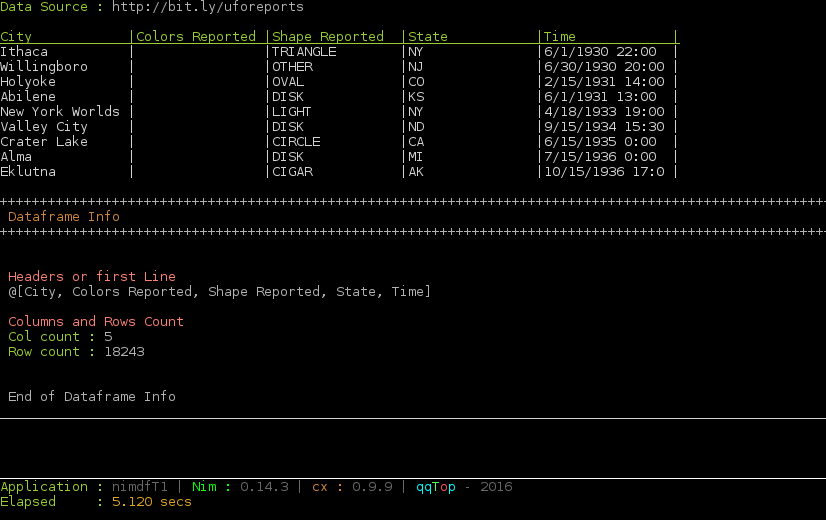
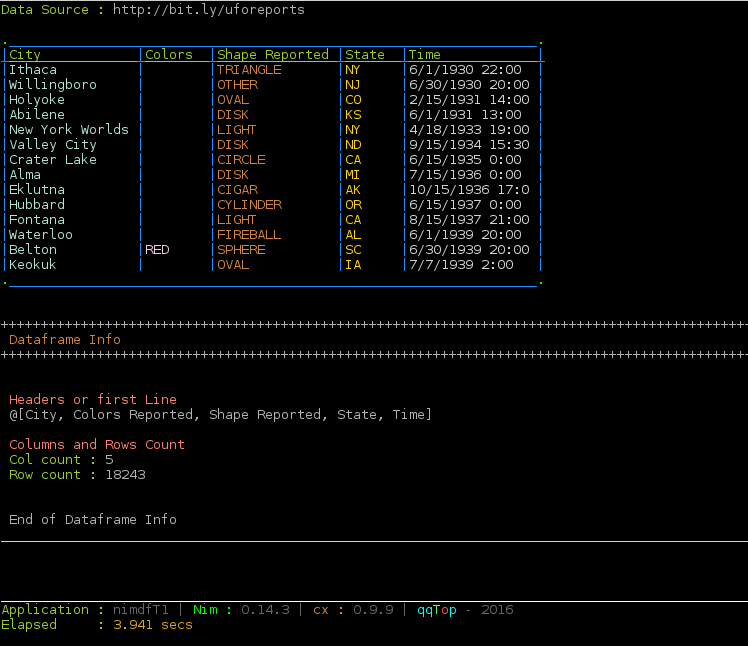
ok

diff --git a/nimdataframe.html b/nimdataframe.html
@@ -1253,10 +1253,10 @@ function main() {
     title="showCounts(df: nimdf)"><wbr />show<wbr />Counts<span class="attachedType" style="visibility:hidden">nimdf</span></a></li>
   <li><a class="reference" href="#showMaxColWidths,nimdf"
     title="showMaxColWidths(df: nimdf)"><wbr />show<wbr />Max<wbr />Col<wbr />Widths<span class="attachedType" style="visibility:hidden">nimdf</span></a></li>
-  <li><a class="reference" href="#showDf,nimdf,int,nimis,nimis,bool,string,bool,nimss"
+  <li><a class="reference" href="#showDf,nimdf,int,nimis,nimis,nimss,bool,string,bool,nimss,bool"
     title="showDf(df: nimdf; rows: int = 10; cols: nimis = @ []; colwd: nimis = @ [];
-       showframe: bool = false; framecolor: string = white; header: bool = false;
-       headertext: nimss = @ [])"><wbr />show<wbr />Df<span class="attachedType" style="visibility:hidden">nimdf</span></a></li>
+       colcolors: nimss = @ []; showframe: bool = false; framecolor: string = white;
+       header: bool = false; headertext: nimss = @ []; leftalignflag: bool = true)"><wbr />show<wbr />Df<span class="attachedType" style="visibility:hidden">nimdf</span></a></li>
   <li><a class="reference" href="#showDataframeInfo,nimdf"
     title="showDataframeInfo(df: nimdf)"><wbr />show<wbr />Dataframe<wbr />Info<span class="attachedType" style="visibility:hidden">nimdf</span></a></li>
   <li><a class="reference" href="#getColData,nimdf,int"
@@ -1477,11 +1477,11 @@ class="link-seesrc" target="_blank">Source</a>
 <a href="/edit/devel/nimdataframe.nim#L256" class="link-seesrc" target="_blank" >Edit</a>
 
 </dd>
-<dt id="showDf"><a name="showDf,nimdf,int,nimis,nimis,bool,string,bool,nimss"></a><pre><span class="Keyword">proc</span> <span class="Identifier">showDf</span><span class="Other">(</span><span class="Identifier">df</span><span class="Other">:</span> <span class="Identifier">nimdf</span><span class="Other">;</span> <span class="Identifier">rows</span><span class="Other">:</span> <span class="Identifier">int</span> <span class="Other">=</span> <span class="DecNumber">10</span><span class="Other">;</span> <span class="Identifier">cols</span><span class="Other">:</span> <span class="Identifier">nimis</span> <span class="Other">=</span> <span class="Operator">@</span> <span class="Other">[</span><span class="Other">]</span><span class="Other">;</span> <span class="Identifier">colwd</span><span class="Other">:</span> <span class="Identifier">nimis</span> <span class="Other">=</span> <span class="Operator">@</span> <span class="Other">[</span><span class="Other">]</span><span class="Other">;</span>
-           <span class="Identifier">showframe</span><span class="Other">:</span> <span class="Identifier">bool</span> <span class="Other">=</span> <span class="Identifier">false</span><span class="Other">;</span> <span class="Identifier">framecolor</span><span class="Other">:</span> <span class="Identifier">string</span> <span class="Other">=</span> <span class="Identifier">white</span><span class="Other">;</span> <span class="Identifier">header</span><span class="Other">:</span> <span class="Identifier">bool</span> <span class="Other">=</span> <span class="Identifier">false</span><span class="Other">;</span>
-           <span class="Identifier">headertext</span><span class="Other">:</span> <span class="Identifier">nimss</span> <span class="Other">=</span> <span class="Operator">@</span> <span class="Other">[</span><span class="Other">]</span><span class="Other">)</span> <span class="Other pragmabegin">{.</span><div class="pragma"><span class="Identifier">raises</span><span class="Other">:</span> <span class="Other">[</span><span class="Identifier">IOError</span><span class="Other">,</span> <span class="Identifier">Exception</span><span class="Other">,</span> <span class="Identifier">AssertionError</span><span class="Other">,</span>
-    <span class="Identifier">OverflowError</span><span class="Other">,</span> <span class="Identifier">ValueError</span><span class="Other">]</span><span class="Other">,</span> <span class="Identifier">tags</span><span class="Other">:</span> <span class="Other">[</span><span class="Identifier">WriteIOEffect</span><span class="Other">,</span> <span class="Identifier">RootEffect</span><span class="Other">,</span> <span class="Identifier">ReadIOEffect</span><span class="Other">,</span>
-                                    <span class="Identifier">TimeEffect</span><span class="Other">]</span></div><span class="Other pragmaend">.}</span></pre></dt>
+<dt id="showDf"><a name="showDf,nimdf,int,nimis,nimis,nimss,bool,string,bool,nimss,bool"></a><pre><span class="Keyword">proc</span> <span class="Identifier">showDf</span><span class="Other">(</span><span class="Identifier">df</span><span class="Other">:</span> <span class="Identifier">nimdf</span><span class="Other">;</span> <span class="Identifier">rows</span><span class="Other">:</span> <span class="Identifier">int</span> <span class="Other">=</span> <span class="DecNumber">10</span><span class="Other">;</span> <span class="Identifier">cols</span><span class="Other">:</span> <span class="Identifier">nimis</span> <span class="Other">=</span> <span class="Operator">@</span> <span class="Other">[</span><span class="Other">]</span><span class="Other">;</span> <span class="Identifier">colwd</span><span class="Other">:</span> <span class="Identifier">nimis</span> <span class="Other">=</span> <span class="Operator">@</span> <span class="Other">[</span><span class="Other">]</span><span class="Other">;</span>
+           <span class="Identifier">colcolors</span><span class="Other">:</span> <span class="Identifier">nimss</span> <span class="Other">=</span> <span class="Operator">@</span> <span class="Other">[</span><span class="Other">]</span><span class="Other">;</span> <span class="Identifier">showframe</span><span class="Other">:</span> <span class="Identifier">bool</span> <span class="Other">=</span> <span class="Identifier">false</span><span class="Other">;</span> <span class="Identifier">framecolor</span><span class="Other">:</span> <span class="Identifier">string</span> <span class="Other">=</span> <span class="Identifier">white</span><span class="Other">;</span>
+           <span class="Identifier">header</span><span class="Other">:</span> <span class="Identifier">bool</span> <span class="Other">=</span> <span class="Identifier">false</span><span class="Other">;</span> <span class="Identifier">headertext</span><span class="Other">:</span> <span class="Identifier">nimss</span> <span class="Other">=</span> <span class="Operator">@</span> <span class="Other">[</span><span class="Other">]</span><span class="Other">;</span> <span class="Identifier">leftalignflag</span><span class="Other">:</span> <span class="Identifier">bool</span> <span class="Other">=</span> <span class="Identifier">true</span><span class="Other">)</span> <span class="Other pragmabegin">{.</span><div class="pragma">
+    <span class="Identifier">raises</span><span class="Other">:</span> <span class="Other">[</span><span class="Identifier">IOError</span><span class="Other">,</span> <span class="Identifier">Exception</span><span class="Other">,</span> <span class="Identifier">AssertionError</span><span class="Other">,</span> <span class="Identifier">OverflowError</span><span class="Other">,</span> <span class="Identifier">ValueError</span><span class="Other">]</span><span class="Other">,</span>
+    <span class="Identifier">tags</span><span class="Other">:</span> <span class="Other">[</span><span class="Identifier">WriteIOEffect</span><span class="Other">,</span> <span class="Identifier">RootEffect</span><span class="Other">,</span> <span class="Identifier">ReadIOEffect</span><span class="Other">,</span> <span class="Identifier">TimeEffect</span><span class="Other">]</span></div><span class="Other pragmaend">.}</span></pre></dt>
 <dd>
 this will show a dataframe with selective cols and selective colls width for each col each col shall be individually colorable sort able parts shall be easyly extract able 
 &nbsp;&nbsp;<a
@@ -1497,9 +1497,9 @@ class="link-seesrc" target="_blank">Source</a>
 <p>some basic information of the dataframe </p>
 
 &nbsp;&nbsp;<a
-href="/tree/master/nimdataframe.nim#L459"
+href="/tree/master/nimdataframe.nim#L487"
 class="link-seesrc" target="_blank">Source</a>
-<a href="/edit/devel/nimdataframe.nim#L459" class="link-seesrc" target="_blank" >Edit</a>
+<a href="/edit/devel/nimdataframe.nim#L487" class="link-seesrc" target="_blank" >Edit</a>
 
 </dd>
 <dt id="getColData"><a name="getColData,nimdf,int"></a><pre><span class="Keyword">proc</span> <span class="Identifier">getColData</span><span class="Other">(</span><span class="Identifier">df</span><span class="Other">:</span> <span class="Identifier">nimdf</span><span class="Other">;</span> <span class="Identifier">col</span><span class="Other">:</span> <span class="Identifier">int</span><span class="Other">)</span><span class="Other">:</span> <span class="Identifier">nimss</span> <span class="Other pragmabegin">{.</span><div class="pragma"><span class="Identifier">raises</span><span class="Other">:</span> <span class="Other">[</span><span class="Other">]</span><span class="Other">,</span> <span class="Identifier">tags</span><span class="Other">:</span> <span class="Other">[</span><span class="Other">]</span></div><span class="Other pragmaend">.}</span></pre></dt>
@@ -1508,9 +1508,9 @@ class="link-seesrc" target="_blank">Source</a>
 <p>get one column from a nimdf dataframe </p>
 
 &nbsp;&nbsp;<a
-href="/tree/master/nimdataframe.nim#L477"
+href="/tree/master/nimdataframe.nim#L505"
 class="link-seesrc" target="_blank">Source</a>
-<a href="/edit/devel/nimdataframe.nim#L477" class="link-seesrc" target="_blank" >Edit</a>
+<a href="/edit/devel/nimdataframe.nim#L505" class="link-seesrc" target="_blank" >Edit</a>
 
 </dd>
 <dt id="getRowData"><a name="getRowData,nimdf,int,varargs[int]"></a><pre><span class="Keyword">proc</span> <span class="Identifier">getRowData</span><span class="Other">(</span><span class="Identifier">df</span><span class="Other">:</span> <span class="Identifier">nimdf</span><span class="Other">;</span> <span class="Identifier">row</span><span class="Other">:</span> <span class="Identifier">int</span> <span class="Other">=</span> <span class="DecNumber">1</span><span class="Other">;</span> <span class="Identifier">dfcols</span><span class="Other">:</span> <span class="Identifier">varargs</span><span class="Other">[</span><span class="Identifier">int</span><span class="Other">]</span><span class="Other">)</span><span class="Other">:</span> <span class="Identifier">nimss</span> <span class="Other pragmabegin">{.</span><div class="pragma">
@@ -1521,9 +1521,9 @@ class="link-seesrc" target="_blank">Source</a>
 <p>gets one row of a nimdf dataframe </p>
 
 &nbsp;&nbsp;<a
-href="/tree/master/nimdataframe.nim#L490"
+href="/tree/master/nimdataframe.nim#L518"
 class="link-seesrc" target="_blank">Source</a>
-<a href="/edit/devel/nimdataframe.nim#L490" class="link-seesrc" target="_blank" >Edit</a>
+<a href="/edit/devel/nimdataframe.nim#L518" class="link-seesrc" target="_blank" >Edit</a>
 
 </dd>
 <dt id="getRowDataRange"><a name="getRowDataRange,nimdf,nimis,varargs[int]"></a><pre><span class="Keyword">proc</span> <span class="Identifier">getRowDataRange</span><span class="Other">(</span><span class="Identifier">df</span><span class="Other">:</span> <span class="Identifier">nimdf</span><span class="Other">;</span> <span class="Identifier">rows</span><span class="Other">:</span> <span class="Identifier">nimis</span> <span class="Other">=</span> <span class="Operator">@</span> <span class="Other">[</span><span class="DecNumber">0</span><span class="Other">]</span><span class="Other">;</span> <span class="Identifier">dfcols</span><span class="Other">:</span> <span class="Identifier">varargs</span><span class="Other">[</span><span class="Identifier">int</span><span class="Other">]</span><span class="Other">)</span><span class="Other">:</span> <span class="Identifier">nimdf</span> <span class="Other pragmabegin">{.</span><div class="pragma">
@@ -1534,9 +1534,9 @@ class="link-seesrc" target="_blank">Source</a>
 <p>gets one row of a nimdf dataframe </p>
 
 &nbsp;&nbsp;<a
-href="/tree/master/nimdataframe.nim#L515"
+href="/tree/master/nimdataframe.nim#L543"
 class="link-seesrc" target="_blank">Source</a>
-<a href="/edit/devel/nimdataframe.nim#L515" class="link-seesrc" target="_blank" >Edit</a>
+<a href="/edit/devel/nimdataframe.nim#L543" class="link-seesrc" target="_blank" >Edit</a>
 
 </dd>
 <dt id="getCellData"><a name="getCellData,nimdf,int,int"></a><pre><span class="Keyword">proc</span> <span class="Identifier">getCellData</span><span class="Other">(</span><span class="Identifier">df</span><span class="Other">:</span> <span class="Identifier">nimdf</span><span class="Other">;</span> <span class="Identifier">row</span><span class="Other">:</span> <span class="Identifier">int</span> <span class="Other">=</span> <span class="DecNumber">1</span><span class="Other">;</span> <span class="Identifier">col</span><span class="Other">:</span> <span class="Identifier">int</span> <span class="Other">=</span> <span class="DecNumber">1</span><span class="Other">)</span><span class="Other">:</span> <span class="Identifier">string</span> <span class="Other pragmabegin">{.</span><div class="pragma"><span class="Identifier">raises</span><span class="Other">:</span> <span class="Other">[</span><span class="Other">]</span><span class="Other">,</span> <span class="Identifier">tags</span><span class="Other">:</span> <span class="Other">[</span><span class="Other">]</span></div><span class="Other pragmaend">.}</span></pre></dt>
@@ -1545,9 +1545,9 @@ class="link-seesrc" target="_blank">Source</a>
 <p>gets Data from a cell of the df at pos row/col </p>
 
 &nbsp;&nbsp;<a
-href="/tree/master/nimdataframe.nim#L531"
+href="/tree/master/nimdataframe.nim#L559"
 class="link-seesrc" target="_blank">Source</a>
-<a href="/edit/devel/nimdataframe.nim#L531" class="link-seesrc" target="_blank" >Edit</a>
+<a href="/edit/devel/nimdataframe.nim#L559" class="link-seesrc" target="_blank" >Edit</a>
 
 </dd>
 <dt id="sortcoldata"><a name="sortcoldata,nimss"></a><pre><span class="Keyword">proc</span> <span class="Identifier">sortcoldata</span><span class="Other">(</span><span class="Identifier">coldata</span><span class="Other">:</span> <span class="Identifier">nimss</span><span class="Other">;</span> <span class="Identifier">order</span> <span class="Other">=</span> <span class="Identifier">Ascending</span><span class="Other">)</span><span class="Other">:</span> <span class="Identifier">nimss</span> <span class="Other pragmabegin">{.</span><div class="pragma"><span class="Identifier">raises</span><span class="Other">:</span> <span class="Other">[</span><span class="Other">]</span><span class="Other">,</span> <span class="Identifier">tags</span><span class="Other">:</span> <span class="Other">[</span><span class="Other">]</span></div><span class="Other pragmaend">.}</span></pre></dt>
@@ -1556,9 +1556,9 @@ class="link-seesrc" target="_blank">Source</a>
 <p>available order Ascending, Descending </p>
 
 &nbsp;&nbsp;<a
-href="/tree/master/nimdataframe.nim#L543"
+href="/tree/master/nimdataframe.nim#L571"
 class="link-seesrc" target="_blank">Source</a>
-<a href="/edit/devel/nimdataframe.nim#L543" class="link-seesrc" target="_blank" >Edit</a>
+<a href="/edit/devel/nimdataframe.nim#L571" class="link-seesrc" target="_blank" >Edit</a>
 
 </dd>
 <dt id="sortdf"><a name="sortdf,nimdf,int"></a><pre><span class="Keyword">proc</span> <span class="Identifier">sortdf</span><span class="Other">(</span><span class="Identifier">df</span><span class="Other">:</span> <span class="Identifier">nimdf</span><span class="Other">;</span> <span class="Identifier">col</span><span class="Other">:</span> <span class="Identifier">int</span><span class="Other">)</span><span class="Other">:</span> <span class="Identifier">nimdf</span> <span class="Other pragmabegin">{.</span><div class="pragma"><span class="Identifier">raises</span><span class="Other">:</span> <span class="Other">[</span><span class="Other">]</span><span class="Other">,</span> <span class="Identifier">tags</span><span class="Other">:</span> <span class="Other">[</span><span class="Other">]</span></div><span class="Other pragmaend">.}</span></pre></dt>
@@ -1567,9 +1567,9 @@ class="link-seesrc" target="_blank">Source</a>
 <p>sort df based on column number col</p>
 
 &nbsp;&nbsp;<a
-href="/tree/master/nimdataframe.nim#L553"
+href="/tree/master/nimdataframe.nim#L581"
 class="link-seesrc" target="_blank">Source</a>
-<a href="/edit/devel/nimdataframe.nim#L553" class="link-seesrc" target="_blank" >Edit</a>
+<a href="/edit/devel/nimdataframe.nim#L581" class="link-seesrc" target="_blank" >Edit</a>
 
 </dd>
 <dt id="makeNimDf"><a name="makeNimDf,varargs[nimss]"></a><pre><span class="Keyword">proc</span> <span class="Identifier">makeNimDf</span><span class="Other">(</span><span class="Identifier">dfcols</span><span class="Other">:</span> <span class="Identifier">varargs</span><span class="Other">[</span><span class="Identifier">nimss</span><span class="Other">]</span><span class="Other">)</span><span class="Other">:</span> <span class="Identifier">nimdf</span> <span class="Other pragmabegin">{.</span><div class="pragma">
@@ -1580,9 +1580,9 @@ class="link-seesrc" target="_blank">Source</a>
 <p>creates a nimdf with passed in col data which is of type nimss </p>
 
 &nbsp;&nbsp;<a
-href="/tree/master/nimdataframe.nim#L565"
+href="/tree/master/nimdataframe.nim#L593"
 class="link-seesrc" target="_blank">Source</a>
-<a href="/edit/devel/nimdataframe.nim#L565" class="link-seesrc" target="_blank" >Edit</a>
+<a href="/edit/devel/nimdataframe.nim#L593" class="link-seesrc" target="_blank" >Edit</a>
 
 </dd>
 <dt id="createDataFrame"><a name="createDataFrame,string,int,char"></a><pre><span class="Keyword">proc</span> <span class="Identifier">createDataFrame</span><span class="Other">(</span><span class="Identifier">filename</span><span class="Other">:</span> <span class="Identifier">string</span><span class="Other">;</span> <span class="Identifier">cols</span><span class="Other">:</span> <span class="Identifier">int</span> <span class="Other">=</span> <span class="DecNumber">2</span><span class="Other">;</span> <span class="Identifier">sep</span><span class="Other">:</span> <span class="Identifier">char</span> <span class="Other">=</span> <span class="CharLit">','</span><span class="Other">)</span><span class="Other">:</span> <span class="Identifier">nimdf</span> <span class="Other pragmabegin">{.</span><div class="pragma"><span class="Identifier">raises</span><span class="Other">:</span> <span class="Other">[</span>
@@ -1595,9 +1595,9 @@ class="link-seesrc" target="_blank">Source</a>
 <p>other should be clean , preprocess as needed</p>
 
 &nbsp;&nbsp;<a
-href="/tree/master/nimdataframe.nim#L580"
+href="/tree/master/nimdataframe.nim#L608"
 class="link-seesrc" target="_blank">Source</a>
-<a href="/edit/devel/nimdataframe.nim#L580" class="link-seesrc" target="_blank" >Edit</a>
+<a href="/edit/devel/nimdataframe.nim#L608" class="link-seesrc" target="_blank" >Edit</a>
 
 </dd>
 
@@ -1610,7 +1610,7 @@ class="link-seesrc" target="_blank">Source</a>
       <div class="twelve-columns footer">
         <span class="nim-sprite"></span>
         <br/>
-        <small>Made with Nim. Generated: 2016-09-21 21:57:20 UTC</small>
+        <small>Made with Nim. Generated: 2016-09-22 16:40:57 UTC</small>
       </div>
     </div>
   </div>
